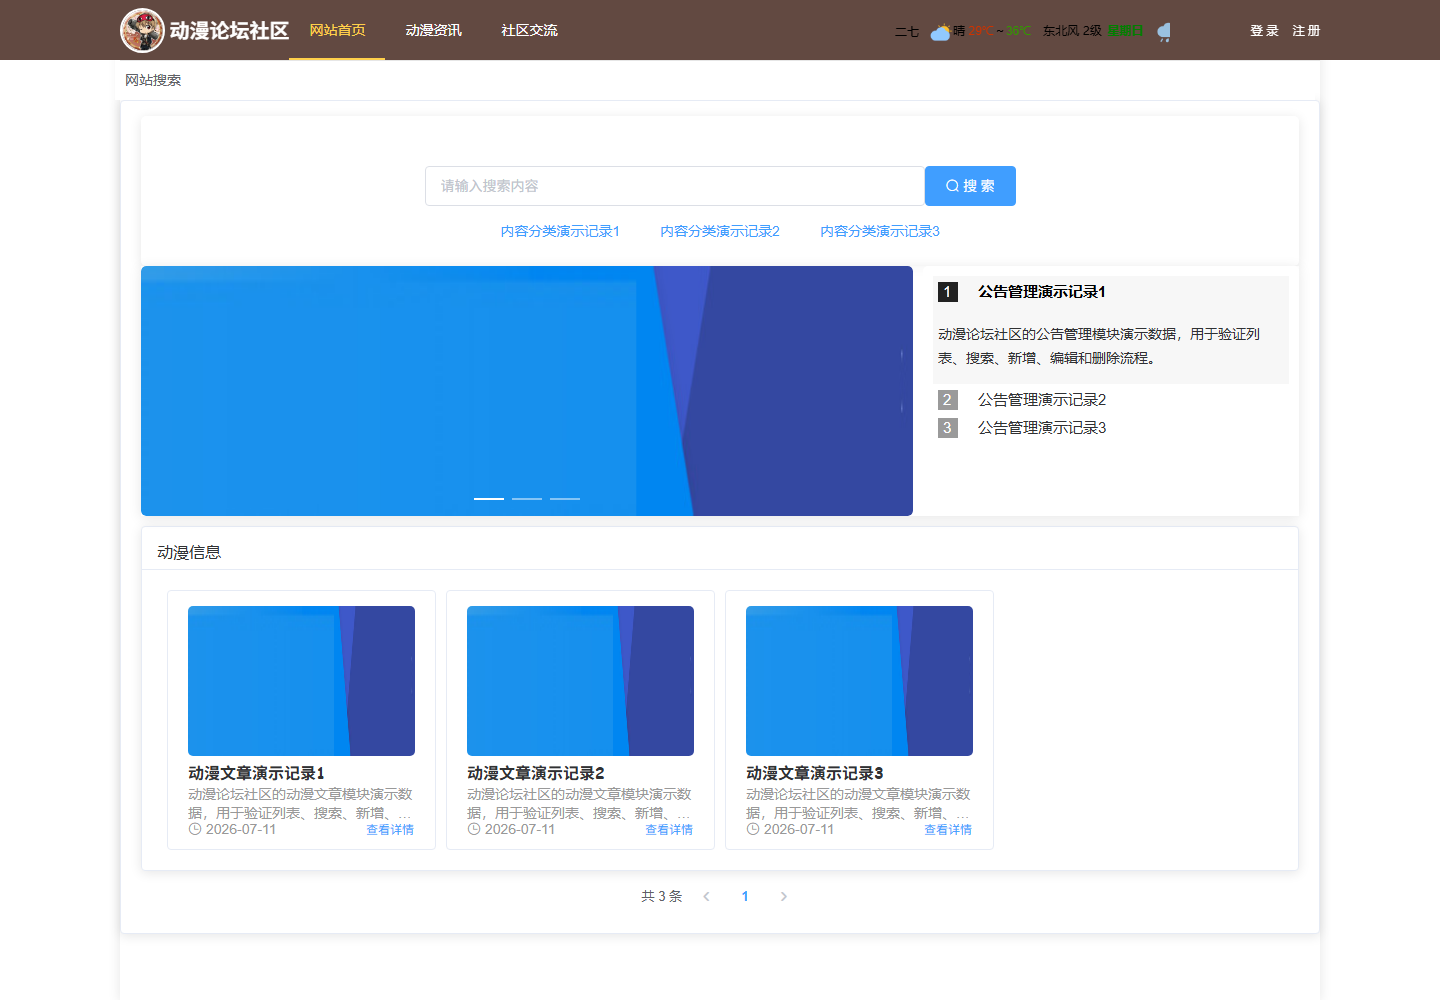
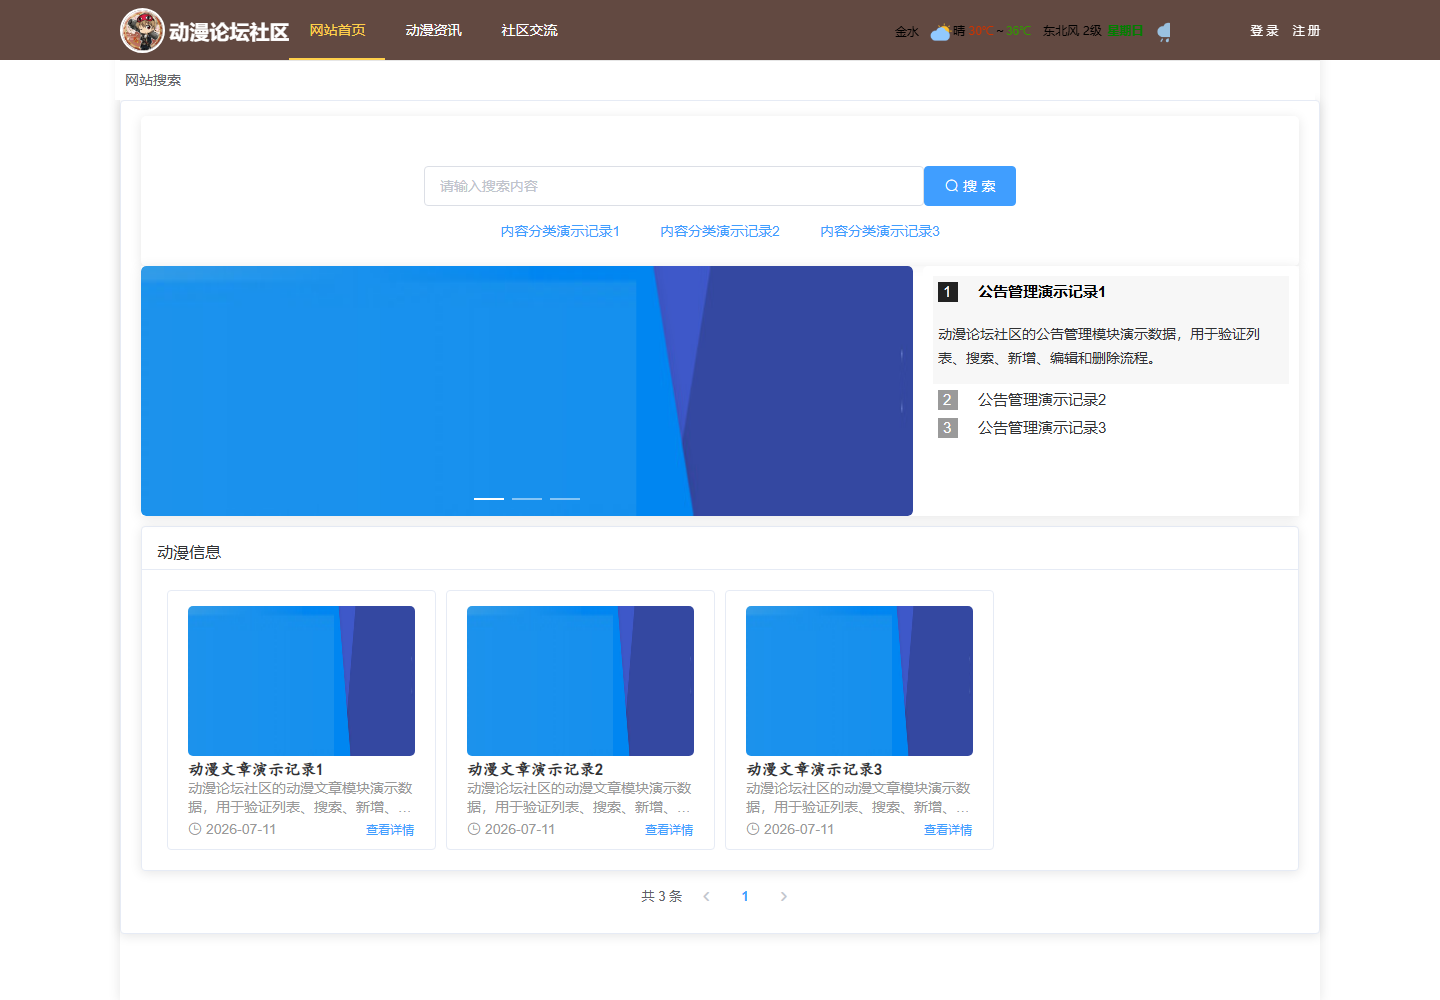
verify original forum frontend

diff --git a/original-site/_worker.js b/original-site/_worker.js
@@ -42,6 +42,40 @@ export default {
   },
 };
 
+
+async function portfolioSummary(env) {
+  const rows = await requestSupabase(env, "items", "GET", { order: "updated_at.desc" });
+  const modules = {};
+  for (const row of rows) modules[row.module_key] = (modules[row.module_key] || 0) + 1;
+  return result(true, null, { totalItems: rows.length, modules, latest: rows.slice(0, 6) });
+}
+
+async function portfolioItems(action, params, env) {
+  if (action === "list") {
+    const query = { order: "updated_at.desc" };
+    if (params.module_key) query.module_key = `eq.${params.module_key}`;
+    return result(true, null, await requestSupabase(env, "items", "GET", query));
+  }
+  if (action === "add") {
+    const rows = await requestSupabase(env, "items", "POST", {}, portfolioPayload(params));
+    return result(true, "created", rows[0] || null);
+  }
+  if (action === "update") {
+    if (!params.id) return result(false, "Missing id", null);
+    const rows = await requestSupabase(env, "items", "PATCH", { id: `eq.${params.id}` }, portfolioPayload(params));
+    return result(true, "updated", rows[0] || null);
+  }
+  if (action === "delete") {
+    if (!params.id) return result(false, "Missing id", null);
+    await requestSupabase(env, "items", "DELETE", { id: `eq.${params.id}` });
+    return result(true, "deleted", null);
+  }
+  return result(false, "Unknown action", null);
+}
+
+function portfolioPayload(params) {
+  return { module_key: String(params.module_key || "article"), title: String(params.title || params.name || "Forum demo record"), subtitle: String(params.subtitle || ""), status: String(params.status || "published"), owner: String(params.owner || "demo user"), amount: Number(params.amount || 0), description: String(params.description || params.content || ""), extra: params.extra || {}, updated_at: new Date().toISOString() };
+}
 async function serveAssetOrSpa(request, env) {
   if (!env.ASSETS) return new Response("Not found", { status: 404 });
   const response = await env.ASSETS.fetch(request);
@@ -57,6 +91,8 @@ async function serveAssetOrSpa(request, env) {
 }
 
 async function handleApi(action, params, env) {
+  if (action === "summary") return portfolioSummary(env);
+  if (action.startsWith("items/")) return portfolioItems(action.slice(6), params, env);
   if (action === "login/getToken") return legacyOk({ data: { token: `demo-token-${params.code || Date.now()}` } });
   if (action === "login/userLogin") return frontLogin(params, env);
   if (action === "login/loginOut") return legacyOk({ data: null, obj: null });

diff --git a/original-site/index.html b/original-site/index.html
@@ -1,4 +1,4 @@
-<!DOCTYPE html><html lang=en><head><meta charset=utf-8><meta http-equiv=X-UA-Compatible content="IE=edge,chrome=1"><meta name=renderer content=webkit><meta name=viewport content="width=device-width,initial-scale=1,maximum-scale=1,user-scalable=no"><link rel=icon type=image/x-icon href=static/images/admin/ico/plant.png><script src=/static/config.js></script><title></title><style>html,
+<!DOCTYPE html><html lang=zh-CN><head><meta charset=utf-8><meta http-equiv=X-UA-Compatible content="IE=edge,chrome=1"><meta name=renderer content=webkit><meta name=viewport content="width=device-width,initial-scale=1,maximum-scale=1,user-scalable=no"><link rel=icon type=image/x-icon href=static/images/admin/ico/plant.png><script src=/static/config.js></script><meta name=description content="动漫论坛社区原 Vue 前端演示，覆盖文章、分类、评论、积分排行和后台内容管理。"><title>动漫论坛社区</title><style>html,
     body,
     #app {
       overflow: hidden;
@@ -172,4 +172,4 @@
       font-size: 13px;
       color: #FFF;
       opacity: 0.5;
-    }</style><link href=/static/css/app.65d3a71c15e352761c008f6623a269ed.css rel=stylesheet></head><body><div id=app><div id=loader-wrapper><div id=loader></div><div class="loader-section section-left"></div><div class="loader-section section-right"></div><div class=load_title>正在加载系统资源，请耐心等待</div></div></div><script type=text/javascript src=/static/js/manifest.ca972bd4e8fc107aabc9.js></script><script type=text/javascript src=/static/js/vendor.dd9f33a0809d58958b9b.js></script><script type=text/javascript src=/static/js/app.a1dea38158ac4f454db8.js></script></body></html>
+    }</style><link href=/static/css/app.65d3a71c15e352761c008f6623a269ed.css rel=stylesheet></head><body><div id=app><div id=loader-wrapper><div id=loader></div><div class="loader-section section-left"></div><div class="loader-section section-right"></div><div class=load_title>正在加载系统资源，请耐心等待</div></div></div><script type=text/javascript src=/static/js/manifest.ca972bd4e8fc107aabc9.js></script><script type=text/javascript src=/static/js/vendor.dd9f33a0809d58958b9b.js></script><script type=text/javascript src=/static/js/app.a1dea38158ac4f454db8.js></script><script>document.title="动漫论坛社区";new MutationObserver(function(){if(document.title!=="动漫论坛社区")document.title="动漫论坛社区"}).observe(document.querySelector("title"),{childList:true})</script></body></html>

diff --git a/docs/original-frontend-restore.md b/docs/original-frontend-restore.md
@@ -45,6 +45,8 @@ Core restored routes:
 - `/api/register/getLoginInfo`
 - `/admin/login/userLogin`
 - `/admin/login/getLoginInfo`
+- `/api/summary`
+- `/api/items/list|add|update|delete`
 
 ## Verification
 
@@ -54,12 +56,17 @@ Completed on 2026-07-12:
 - `/health` returns `frontend: original-sui-element-ui`.
 - Category, article, notice, config, logout, and login routes return HTTP 200.
 - Front login with public demo account `test / 123456` succeeds.
+- Admin login with `admin / 123456` succeeds.
+- Persistent create, update, and delete checks pass through `/api/items/*`; the temporary record is removed after verification.
+- Browser title and description metadata identify the deployed product as 动漫论坛社区.
 - Browser screenshot shows the original anime forum layout: fixed top navigation, search block, category links, carousel, notices, and article cards.
 - Screenshots:
   - `docs/screenshots/original-home.png`
   - `docs/screenshots/original-login.png`
 
 ## Known Boundary
+
+Original forum submission endpoints keep the legacy response contract; durable portfolio CRUD is exposed through `/api/items/*` and backed by the isolated Supabase schema.
 
 The original page embeds a third-party weather iframe. In headless Playwright checks, some external weather/statistic image requests can abort. Project-owned Pages assets and API routes passed.
 